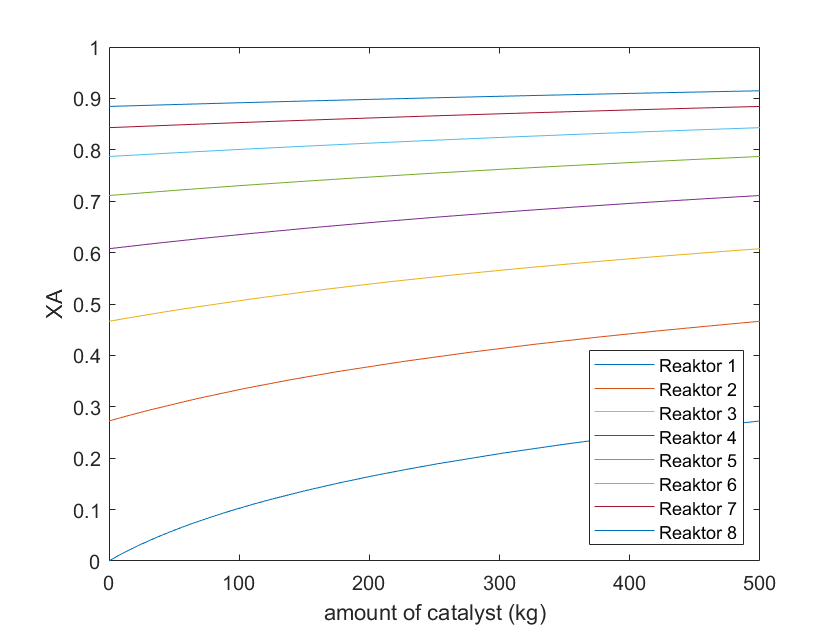
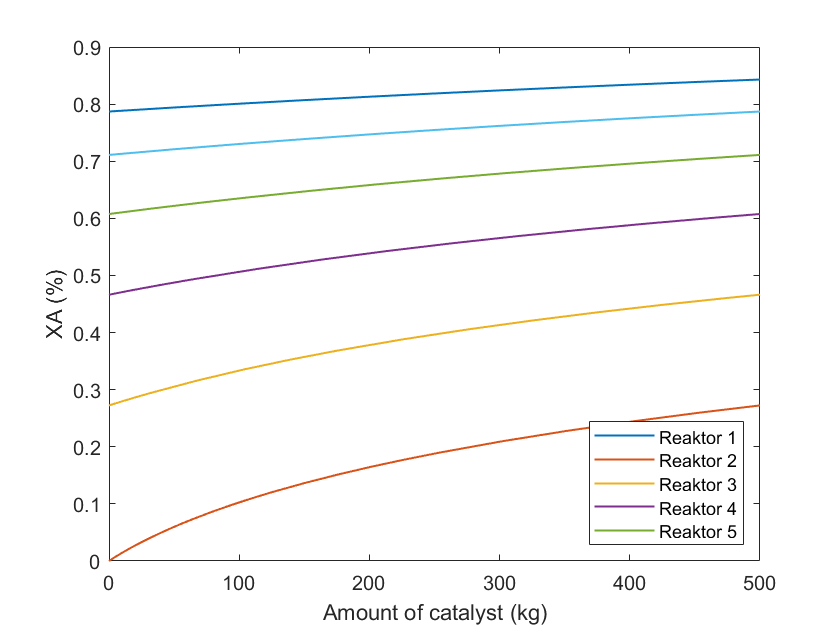
pls be last one

diff --git a/Kanske.m b/Kanske.m
@@ -18,7 +18,7 @@ CP=[1.39 0.3847 -1.846e-04 2.895e-08;
     32.24 0.001924 1.055e-05 -3.596e-09]; %matris med alla CP konstanter J/mol/K
     
 Tslut=zeros(1,5); %define a matrix just so matlab doesn't complain
-while XA_start-0.89<1e-4
+while XA_start-0.78<1e-4
 %{
 a while-loop to determine the amount of reactors needed 
 to get the conversion sought after. the loop stops when converison hits a
